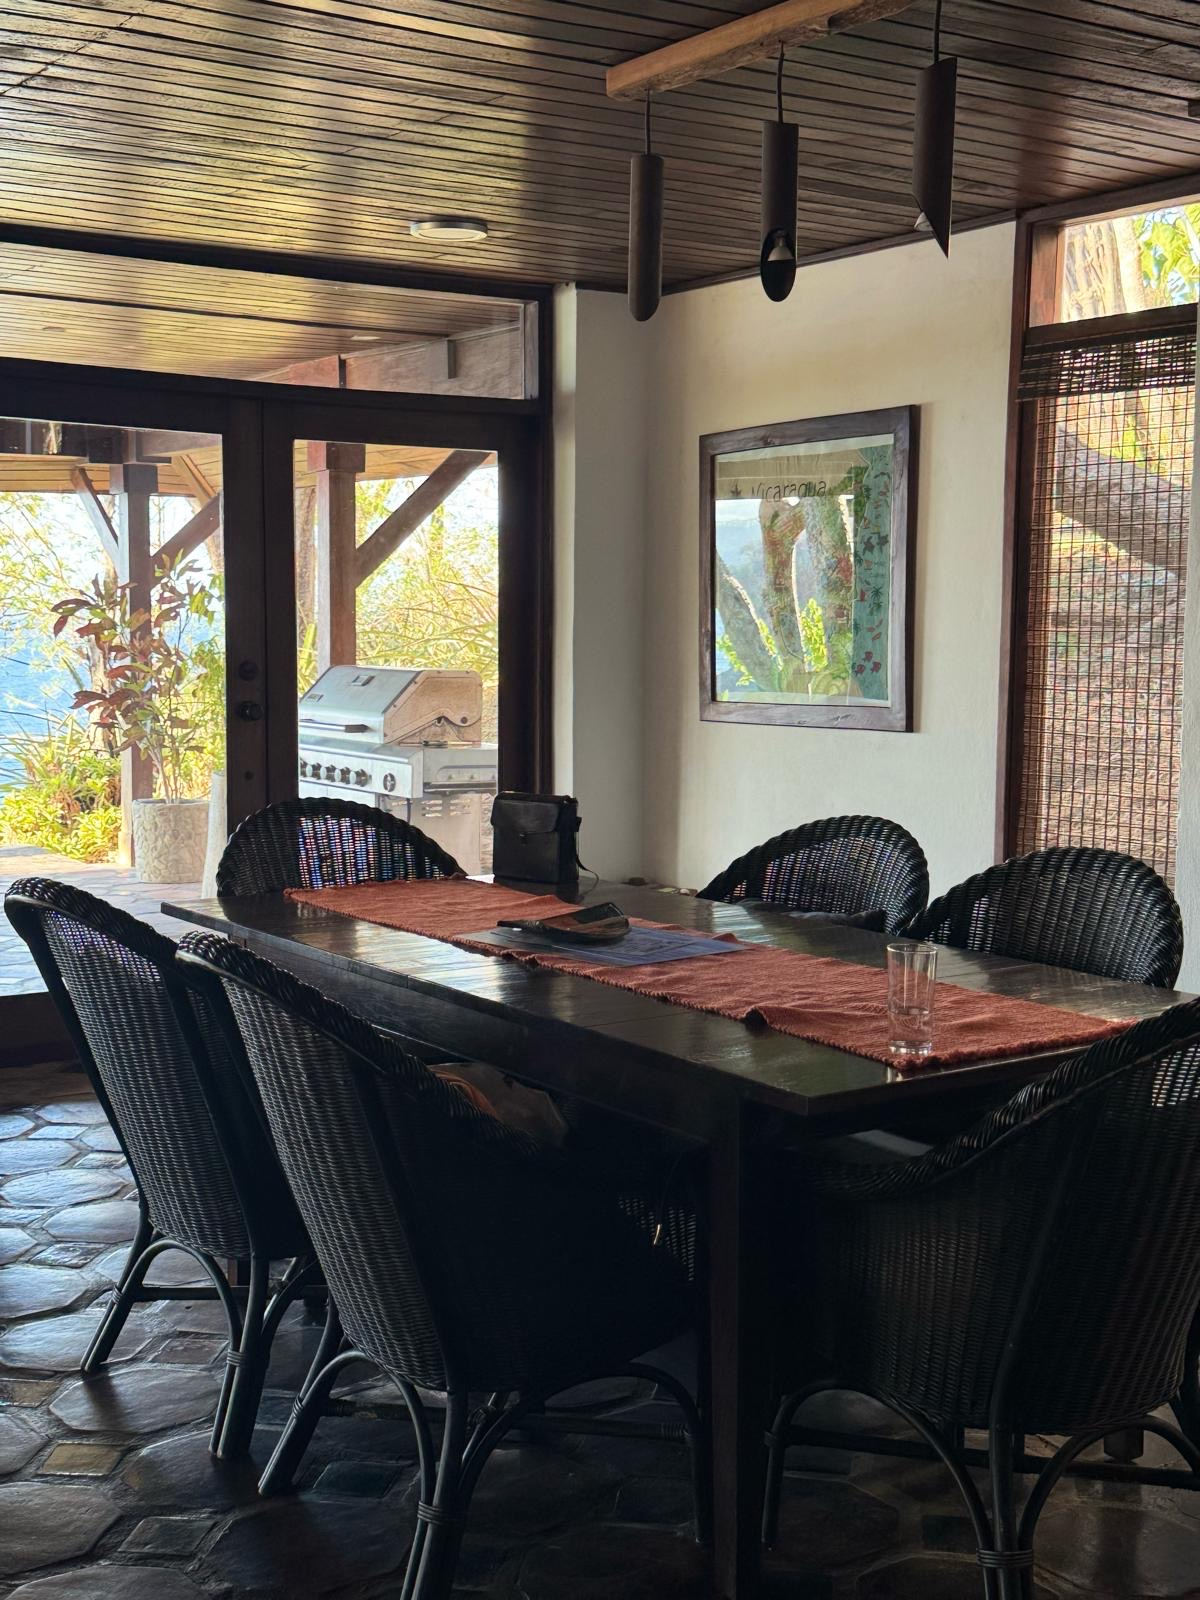
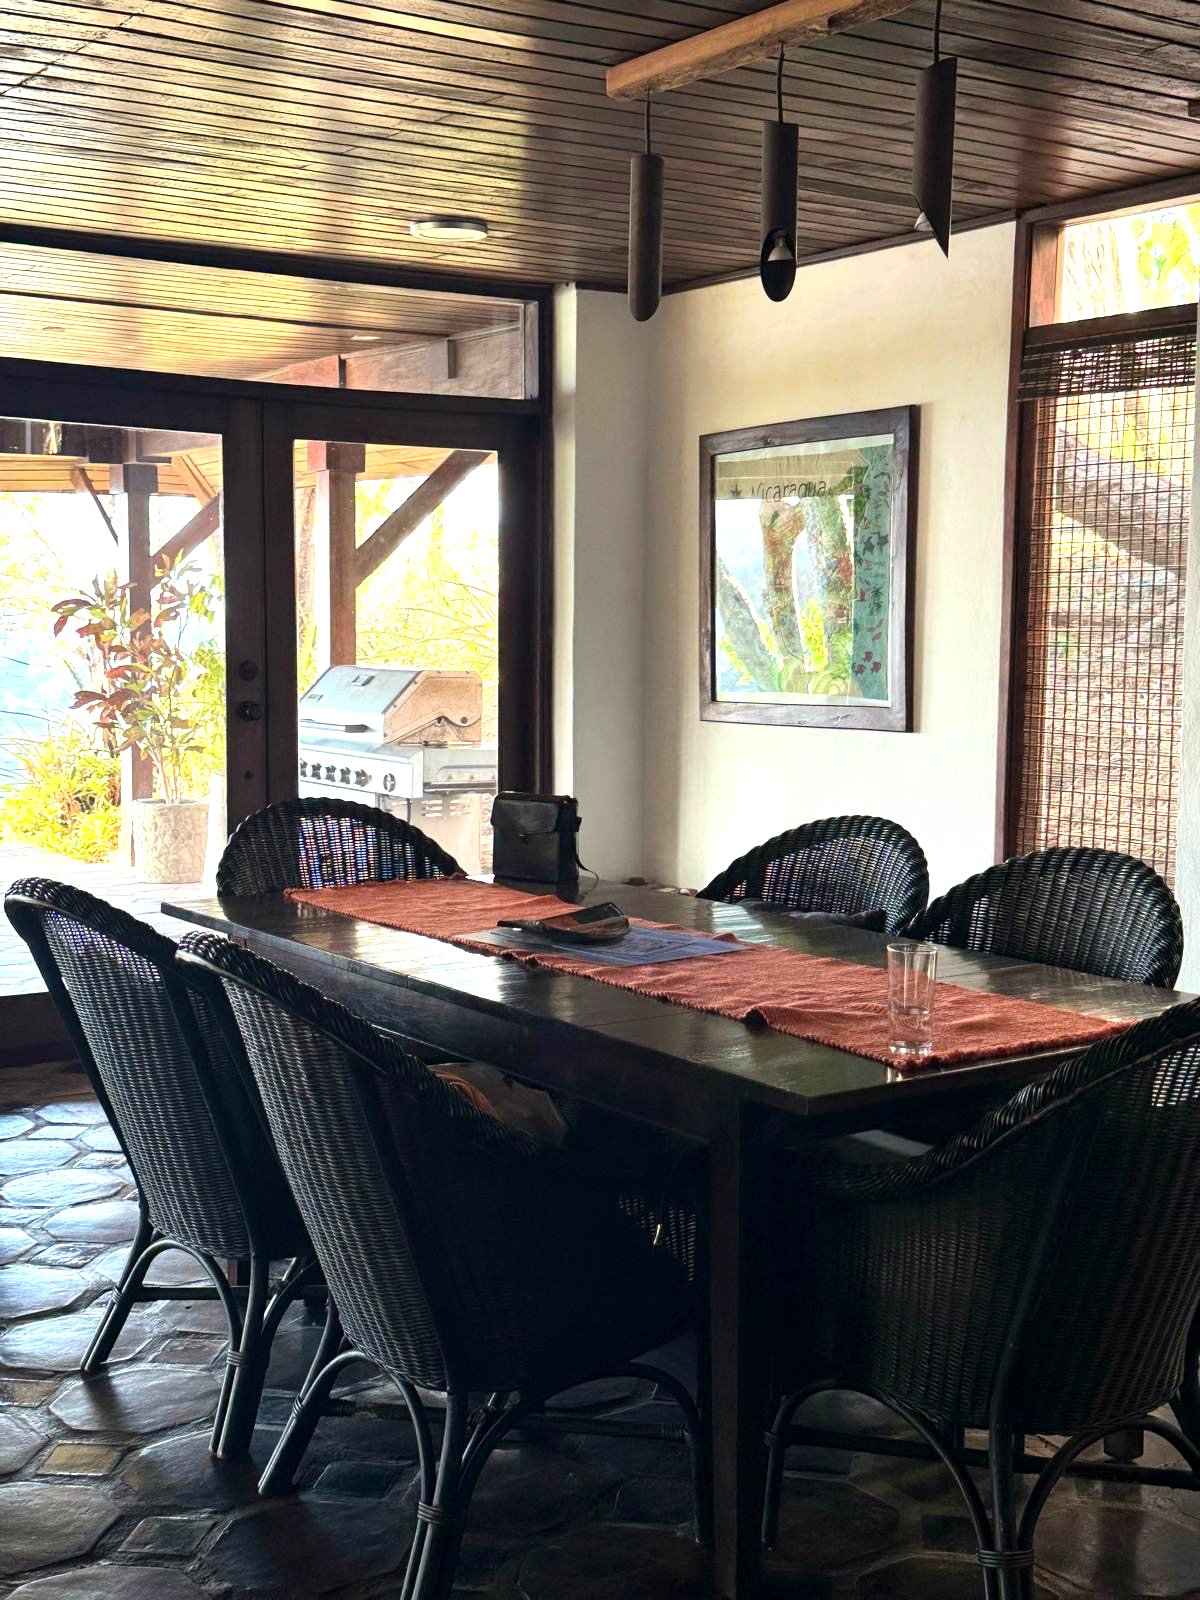
Tower: add the two remaining House 10 photos (cleaned up)
- great-room-open: cropped the left edge to remove sneakers on the daybed
- dining-grill-view: brightened the dark exposure (+contrast)
Both added to the gallery and JSON-LD image list.

diff --git a/tower/index.html b/tower/index.html
@@ -54,10 +54,12 @@
           "https://www.shankton.com/images/nica/tower/ocean-view.jpg",
           "https://www.shankton.com/images/nica/tower/deck.jpg",
           "https://www.shankton.com/images/nica/tower/living-tribal-art.jpg",
+          "https://www.shankton.com/images/nica/tower/great-room-open.jpg",
           "https://www.shankton.com/images/nica/tower/balcony-ocean.jpg",
           "https://www.shankton.com/images/nica/tower/terrace-covered-lounge.jpg",
           "https://www.shankton.com/images/nica/tower/kitchen-island.jpg",
           "https://www.shankton.com/images/nica/tower/kitchen-dining.jpg",
+          "https://www.shankton.com/images/nica/tower/dining-grill-view.jpg",
           "https://www.shankton.com/images/nica/tower/master-bedroom.jpg",
           "https://www.shankton.com/images/nica/tower/beach-cove.jpg"
         ],
@@ -303,6 +305,9 @@
     <div class="gallery-cell-bg" role="img" aria-label="Shankton Tower — living room with local art and ocean windows, Playa Gigante, Nicaragua" style="background-image:url('../images/nica/tower/living-tribal-art.jpg');background-size:cover;background-position:center;height:100%;"></div>
   </div>
   <div class="gallery-cell">
+    <div class="gallery-cell-bg" role="img" aria-label="Shankton Tower — open-plan great room and kitchen, Playa Gigante, Nicaragua" style="background-image:url('../images/nica/tower/great-room-open.jpg');background-size:cover;background-position:center;height:100%;"></div>
+  </div>
+  <div class="gallery-cell">
     <div class="gallery-cell-bg" role="img" aria-label="Shankton Tower — infinity pool over the coastline, Playa Gigante, Nicaragua" style="background-image:url('../images/nica/tower/pool-infinity.jpg');background-size:cover;background-position:center;height:100%;"></div>
   </div>
   <div class="gallery-cell">
@@ -316,6 +321,9 @@
   </div>
   <div class="gallery-cell">
     <div class="gallery-cell-bg" role="img" aria-label="Shankton Tower — open-plan kitchen and dining, Playa Gigante, Nicaragua" style="background-image:url('../images/nica/tower/kitchen-dining.jpg');background-size:cover;background-position:center;height:100%;"></div>
+  </div>
+  <div class="gallery-cell">
+    <div class="gallery-cell-bg" role="img" aria-label="Shankton Tower — indoor dining table with grill terrace and ocean beyond, Playa Gigante, Nicaragua" style="background-image:url('../images/nica/tower/dining-grill-view.jpg');background-size:cover;background-position:center;height:100%;"></div>
   </div>
   <div class="gallery-cell">
     <div class="gallery-cell-bg" role="img" aria-label="Shankton Tower — master bedroom, Playa Gigante, Nicaragua" style="background-image:url('../images/nica/tower/master-bedroom.jpg');background-size:cover;background-position:center;height:100%;"></div>
